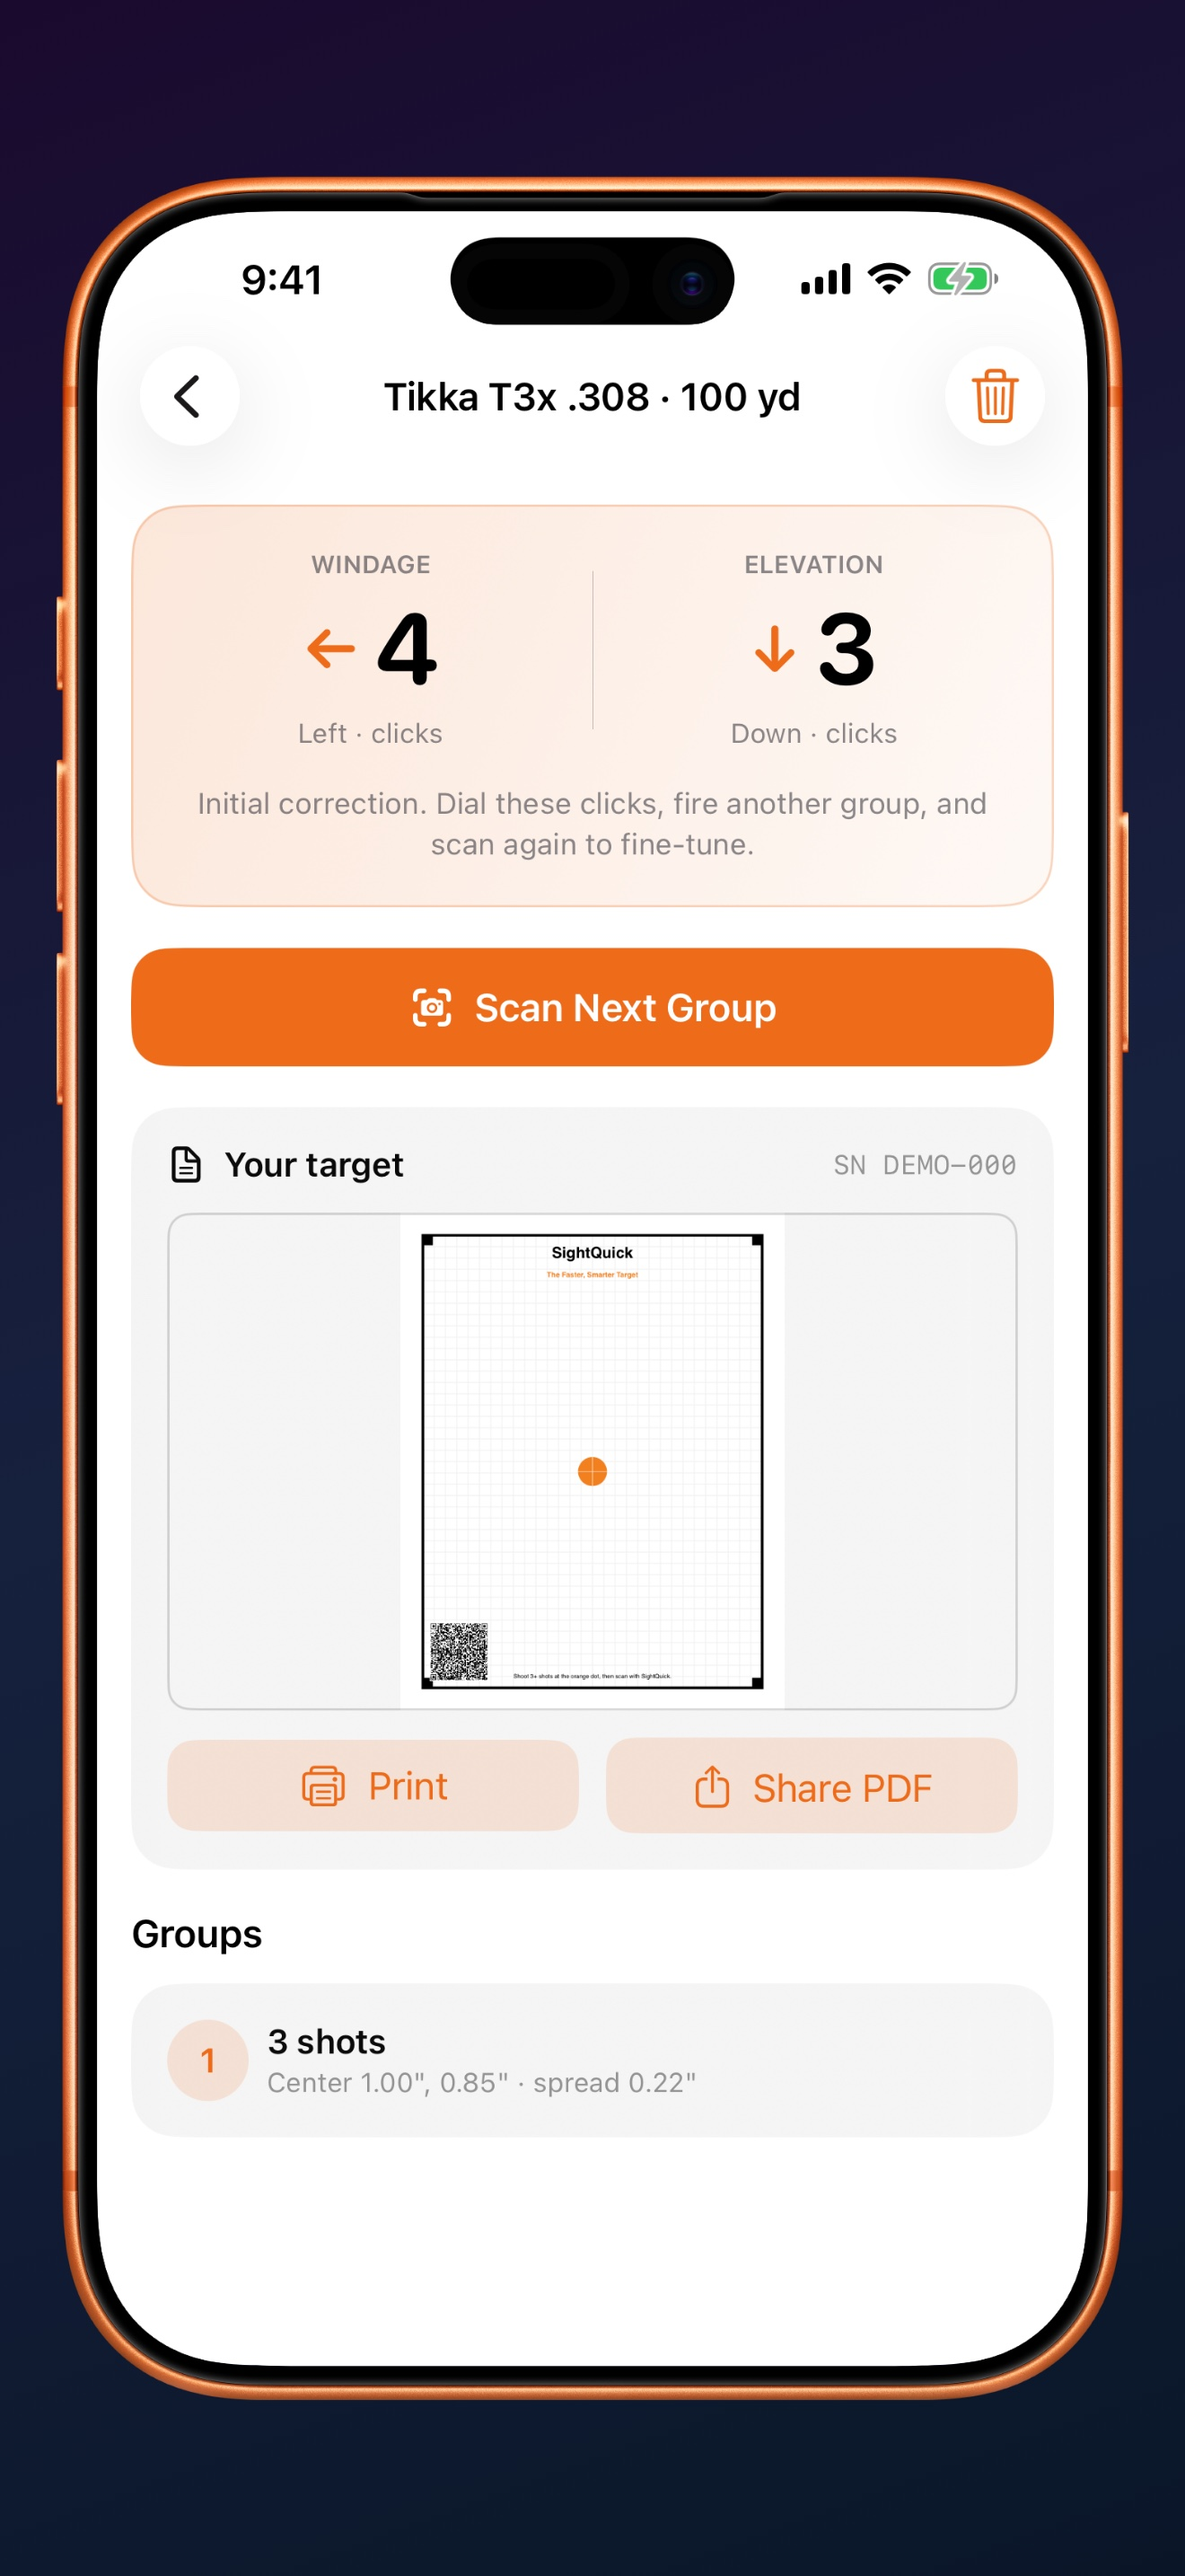
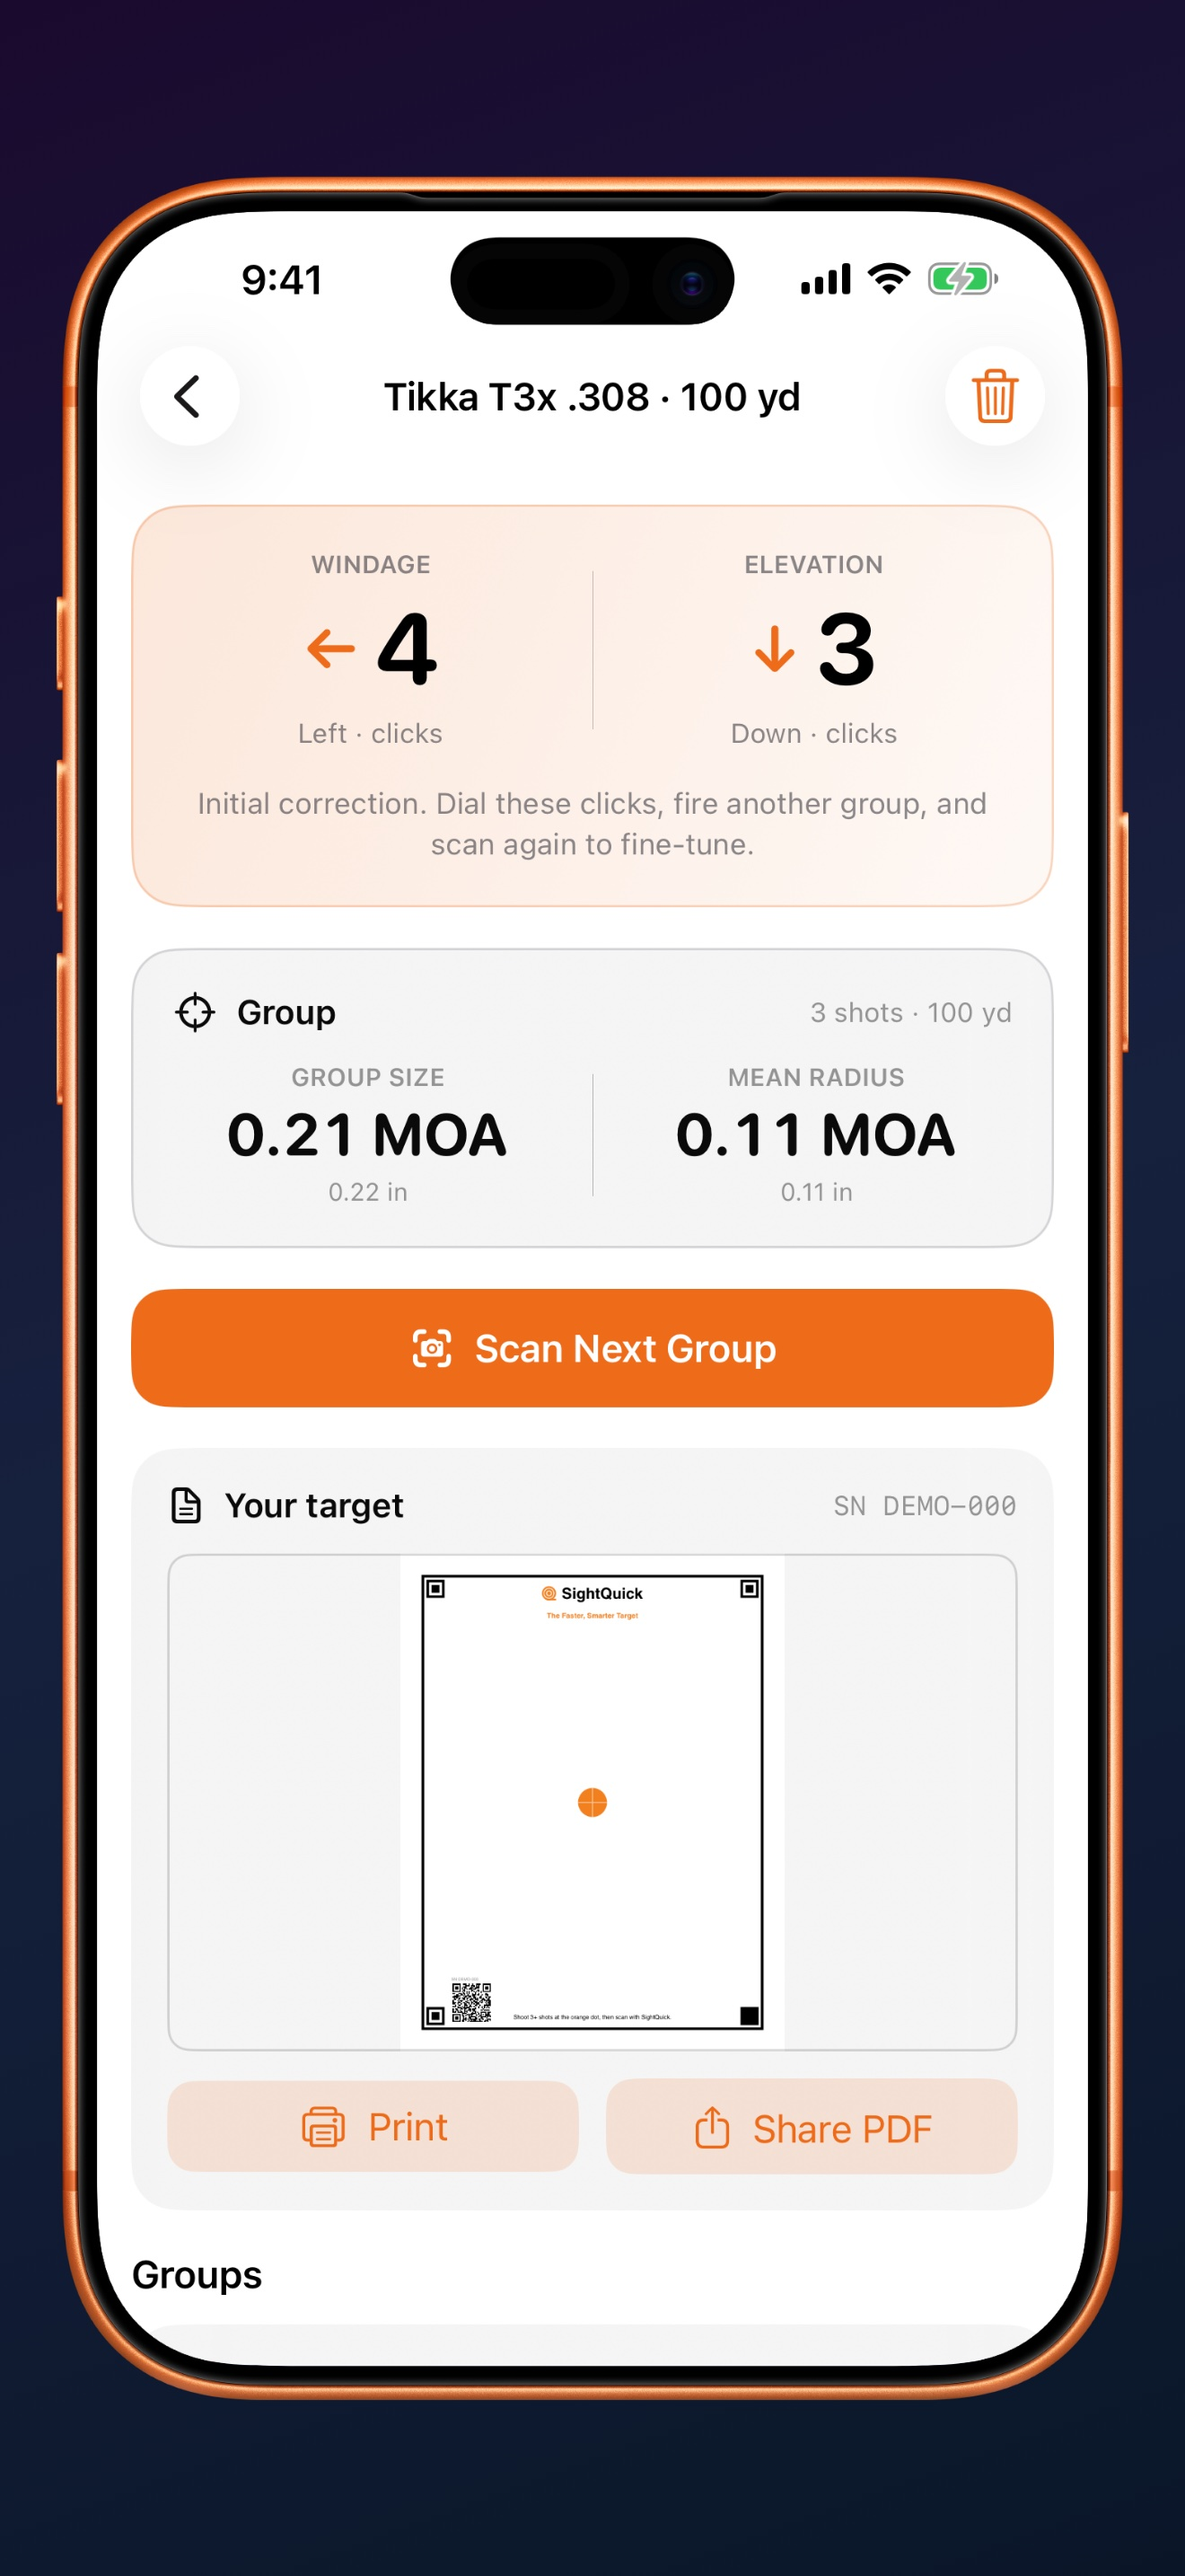
SightQuick page: fresh app mockups + gridless-target copy
Mockups replaced with the current 1.0.0 (build 27) framed screenshots —
brand mark on targets, current Home/Results/Generate UI. Copy updated to
match the shipping design: targets print gridless and the MOA/MIL grid is
virtual, sized to the shooter's profile at scan time. Poster unchanged
(icon art, still current).

Changed region(s): [[0.0932, 0.3414, 0.9008, 0.7137], [0.1242, 0.7448, 0.8697, 0.8999], [0.6212, 0.5896, 0.6523, 0.6206]]

diff --git a/apps/sightquick/index.html b/apps/sightquick/index.html
@@ -127,7 +127,7 @@
         <div class="feature-icon">🎯</div>
         <h3 class="feature-title">Coded Printable Targets</h3>
         <p class="feature-description">
-          Generate a uniquely-coded target and print it on your own paper — Letter, A4, or Tabloid — or take the PDF to a print shop for big ANSI C / ARCH D / A2 sheets. Choose a ¼-inch or 1 cm grid. A QR code embeds the exact geometry so the app knows precisely what it's looking at.
+          Generate a uniquely-coded target and print it on your own paper — Letter, A4, or Tabloid — or take the PDF to a print shop for big ANSI C / ARCH D / A2 sheets. Targets print clean and gridless; at scan time SightQuick overlays a virtual MOA/MIL grid sized to your optic and distance, so one sheet works at any range. A QR code embeds the exact geometry so the app knows precisely what it's looking at.
         </p>
       </div>
 
@@ -179,7 +179,7 @@
       <div class="magazine-content">
         <h2>Print a Coded Target</h2>
         <p>
-          Pick your paper size and rifle profile, and SightQuick generates a uniquely-serialized ¼-inch grid target with an orange aim dot, corner registration marks, and an embedded QR code. Print it on any home or office printer.
+          Pick your paper size and rifle profile, and SightQuick generates a uniquely-serialized gridless target with an orange aim dot, corner markers, and an embedded QR code. Print it on any home or office printer.
         </p>
         <p>
           No special paper, no targets to order and wait for. Each printout is good for one complete zeroing session you can re-photograph as you dial in.
@@ -241,7 +241,7 @@
       </button>
       <div class="faq-answer">
         <p>
-          No. SightQuick generates the target for you and you print it on plain paper with any home or office printer — Letter, A4, or Tabloid. Each target is uniquely coded so the app knows its exact size and grid. There's nothing to order, ship, or store.
+          No. SightQuick generates the target for you and you print it on plain paper with any home or office printer — Letter, A4, or Tabloid. Each target is uniquely coded so the app knows its exact size and geometry. There's nothing to order, ship, or store.
         </p>
       </div>
     </div>
